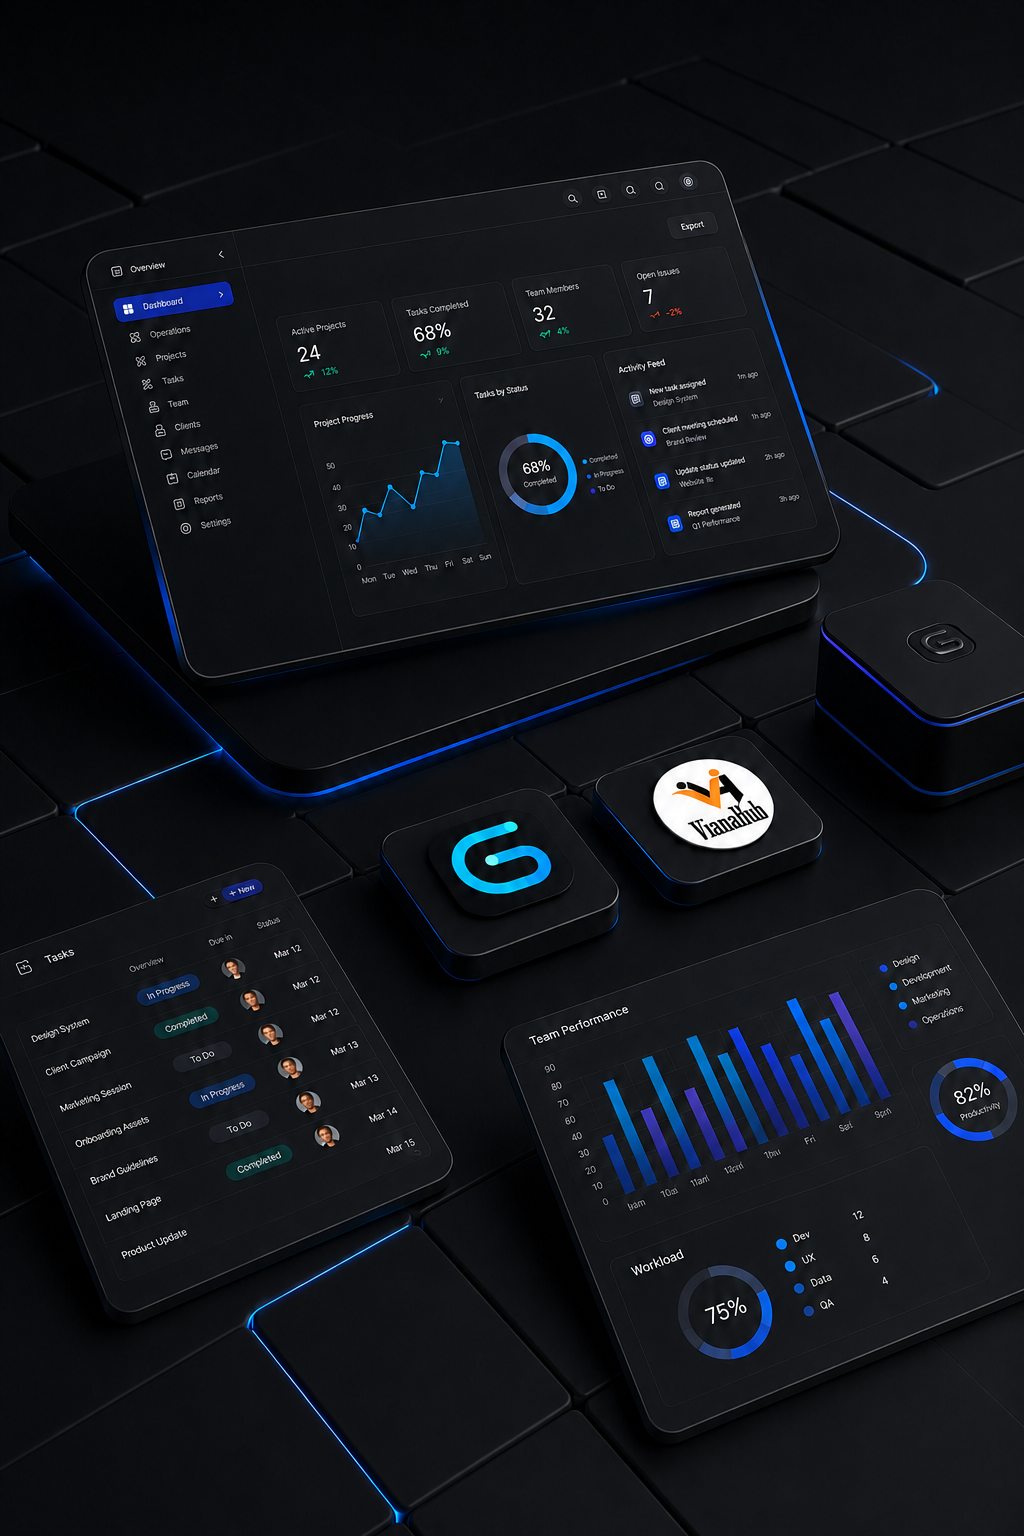
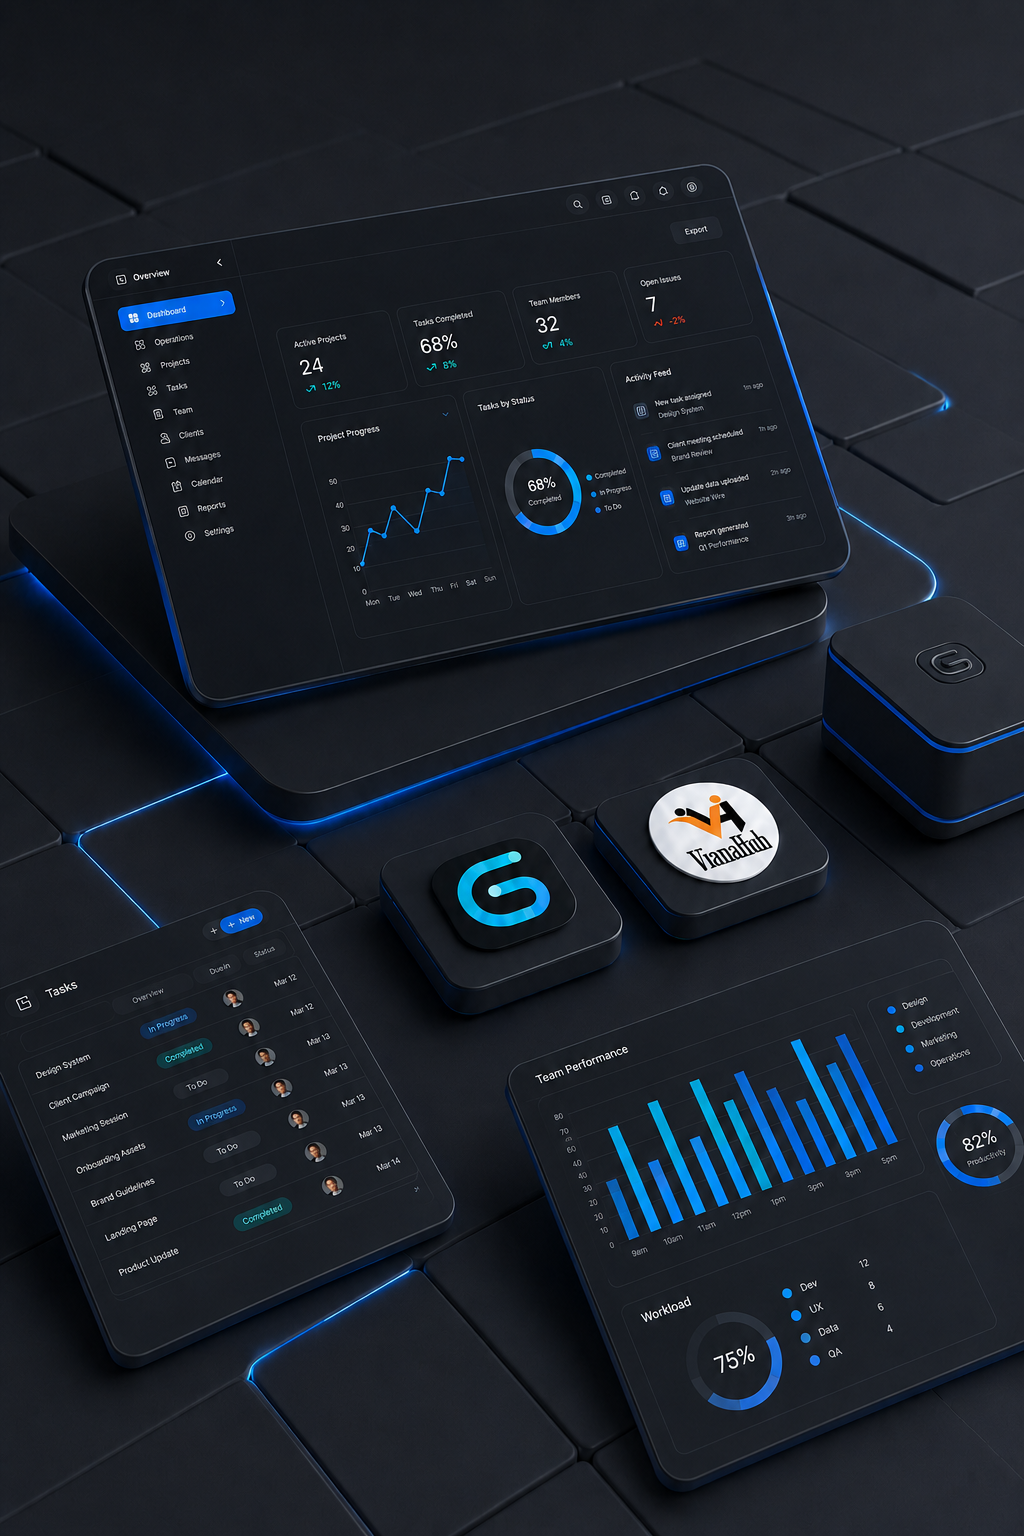
feat(ui): padronizar inputs, textareas e SelectTrigger com estilo do login - closes #99

diff --git a/domains/operations/clients/clients-details.tsx b/domains/operations/clients/clients-details.tsx
@@ -4,6 +4,7 @@ import clsx from "clsx";
 import { Loader2, Power, SquarePen, Trash2, ArrowLeft } from "lucide-react";
 import { FormEvent, useCallback, useEffect, useMemo, useRef, useState } from "react";
 import { ConfirmDialog } from "@/shared/ui/confirm-dialog";
+import { Textarea } from "@/shared/ui/textarea";
 import { useRouter } from "next/navigation";
 import { useAuth } from "@/platform/auth";
 import { useTranslation } from "@/platform/i18n";
@@ -1786,7 +1787,7 @@ export function ClientsDetailsPage({ clientId: clientIdProp }: { clientId?: stri
           <label className="mb-1.5 block text-sm font-semibold text-muted-foreground dark:text-muted-foreground">
             {t("clients.form.observation")}
           </label>
-          <textarea
+          <Textarea
             value={clientFormState.note}
             onChange={(event) =>
               setClientFormState((prev) => ({
@@ -1795,7 +1796,6 @@ export function ClientsDetailsPage({ clientId: clientIdProp }: { clientId?: stri
               }))
             }
             rows={3}
-            className="w-full rounded-sm border border-input bg-background px-3 py-2 text-sm text-foreground placeholder:text-muted-foreground focus:border-ring focus:outline-none focus:ring-1 focus:ring-ring dark:border-input dark:bg-card dark:text-foreground dark:placeholder:text-muted-foreground dark:focus:border-ring"
           />
         </div>
       </div>
@@ -1907,7 +1907,7 @@ export function ClientsDetailsPage({ clientId: clientIdProp }: { clientId?: stri
             <label className="mb-1.5 block text-sm font-semibold text-muted-foreground dark:text-muted-foreground">
               {t("clients.form.observation")}
             </label>
-            <textarea
+            <Textarea
               value={clientFormState.note}
               onChange={(event) =>
                 setClientFormState((prev) => ({
@@ -1916,7 +1916,6 @@ export function ClientsDetailsPage({ clientId: clientIdProp }: { clientId?: stri
                 }))
               }
               rows={3}
-              className="w-full rounded-sm border border-input bg-background px-3 py-2 text-sm text-foreground placeholder:text-muted-foreground focus:border-ring focus:outline-none focus:ring-1 focus:ring-ring dark:border-input dark:bg-card dark:text-foreground dark:placeholder:text-muted-foreground dark:focus:border-ring"
             />
           </div>
         </div>

diff --git a/domains/operations/clients/clients-create.tsx b/domains/operations/clients/clients-create.tsx
@@ -12,6 +12,7 @@ import {
   normalizeClient,
   normalizeClientError,
 } from "@/domains/operations/clients/client-utils";
+import { Textarea } from "@/shared/ui/textarea";
 import {
   FormField,
   SelectField,
@@ -213,7 +214,7 @@ export function ClientsCreatePage() {
           <label className="mb-1.5 block text-sm font-semibold text-muted-foreground dark:text-muted-foreground">
             {t("clients.form.observation")}
           </label>
-          <textarea
+          <Textarea
             value={clientFormState.note}
             onChange={(event) =>
               setClientFormState((prev) => ({
@@ -222,7 +223,6 @@ export function ClientsCreatePage() {
               }))
             }
             rows={3}
-            className="w-full rounded-sm border border-border bg-card px-3 py-2 text-sm text-foreground placeholder:text-muted-foreground focus:border-ring focus:outline-none focus:ring-1 focus:ring-ring dark:border-border dark:bg-card dark:text-foreground dark:placeholder:text-muted-foreground dark:focus:border-ring"
           />
         </div>
       </div>
@@ -334,7 +334,7 @@ export function ClientsCreatePage() {
             <label className="mb-1.5 block text-sm font-semibold text-muted-foreground dark:text-muted-foreground">
               {t("clients.form.observation")}
             </label>
-            <textarea
+            <Textarea
               value={clientFormState.note}
               onChange={(event) =>
                 setClientFormState((prev) => ({
@@ -343,7 +343,6 @@ export function ClientsCreatePage() {
                 }))
               }
               rows={3}
-              className="w-full rounded-sm border border-border bg-card px-3 py-2 text-sm text-foreground placeholder:text-muted-foreground focus:border-ring focus:outline-none focus:ring-1 focus:ring-ring dark:border-border dark:bg-card dark:text-foreground dark:placeholder:text-muted-foreground dark:focus:border-ring"
             />
           </div>
         </div>

diff --git a/domains/operations/clients/clients-form-components.tsx b/domains/operations/clients/clients-form-components.tsx
@@ -1,6 +1,7 @@
 "use client";
 
 import clsx from "clsx";
+import { Input } from "@/shared/ui/input";
 
 /* ---------- Individual form state ---------- */
 
@@ -229,7 +230,7 @@ export function FormField({
         {label}
         {required && <span className="ml-0.5 text-red-500">*</span>}
       </label>
-      <input
+      <Input
         id={inputId}
         type={type}
         value={value}
@@ -239,10 +240,9 @@ export function FormField({
         aria-invalid={error ? true : undefined}
         aria-describedby={error && errorId ? `${errorId}-error` : undefined}
         className={clsx(
-          "rounded-sm border px-3 py-2 text-sm text-foreground placeholder:text-muted-foreground focus:outline-none focus:ring-1 focus:ring-ring disabled:opacity-50 dark:text-foreground dark:placeholder:text-muted-foreground dark:focus:border-ring",
           error
-            ? "border-red-500 focus:border-red-500 dark:border-red-500"
-            : "border-border bg-card focus:border-ring dark:border-border dark:bg-card",
+            ? "border-red-500 focus-visible:border-red-500 focus-visible:ring-red-500/55"
+            : "",
         )}
       />
       {error && errorId && (

diff --git a/shared/hub-grid/hub-grid.tsx b/shared/hub-grid/hub-grid.tsx
@@ -3,6 +3,7 @@
 import clsx from "clsx";
 import { ChevronDown, ChevronUp, Inbox, Loader2, Search } from "lucide-react";
 import type { ReactNode } from "react";
+import { Input } from "@/shared/ui/input";
 
 export type RowDensity = "compact" | "medium" | "expanded";
 
@@ -145,11 +146,11 @@ export function HubGrid<Item>({
             </label>
             <label className="relative w-1/3 min-w-[12rem]">
               <Search className="pointer-events-none absolute left-3 top-1/2 h-4 w-4 -translate-y-1/2 text-muted-foreground" />
-              <input
+              <Input
                 value={searchValue}
                 onChange={(event) => onSearchChange(event.target.value)}
                 placeholder={searchPlaceholder}
-                className="h-11 w-full rounded-sm border border-input bg-background pl-10 pr-3 text-sm text-foreground outline-none focus:border-ring dark:border-input dark:bg-card dark:text-white"
+                className="pl-10"
               />
             </label>
           </div>

diff --git a/shared/ui/textarea.tsx b/shared/ui/textarea.tsx
@@ -1,0 +1,24 @@
+"use client";
+
+import * as React from "react";
+import { cn } from "@/shared/ui/utils";
+
+export interface TextareaProps extends React.TextareaHTMLAttributes<HTMLTextAreaElement> {}
+
+const Textarea = React.forwardRef<HTMLTextAreaElement, TextareaProps>(
+  ({ className, ...props }, ref) => {
+    return (
+      <textarea
+        className={cn(
+          "flex h-12 w-full rounded-[14px] border bg-card px-4 py-2 text-sm text-foreground outline-none transition-colors placeholder:text-muted-foreground focus-visible:ring-2 focus-visible:ring-ring/55 disabled:cursor-not-allowed disabled:opacity-50 min-h-[80px]",
+          className,
+        )}
+        ref={ref}
+        {...props}
+      />
+    );
+  },
+);
+Textarea.displayName = "Textarea";
+
+export { Textarea };

diff --git a/shared/ui/select.tsx b/shared/ui/select.tsx
@@ -18,7 +18,7 @@ const SelectTrigger = React.forwardRef<
   <SelectPrimitive.Trigger
     ref={ref}
     className={cn(
-      "flex h-8 w-full items-center justify-between rounded-full border border-white/10 bg-black/10 px-3 text-[0.72rem] font-semibold text-muted-foreground outline-none transition-colors hover:text-foreground focus-visible:ring-2 focus-visible:ring-ring disabled:cursor-not-allowed disabled:opacity-50",
+      "flex h-8 w-full items-center justify-between rounded-[14px] border border-border bg-card px-3 text-sm font-semibold text-muted-foreground outline-none transition-colors hover:text-foreground focus-visible:ring-2 focus-visible:ring-ring disabled:cursor-not-allowed disabled:opacity-50",
       "data-[placeholder]:text-muted-foreground",
       className,
     )}

diff --git a/shared/ui/input.tsx b/shared/ui/input.tsx
@@ -1,0 +1,25 @@
+"use client";
+
+import * as React from "react";
+import { cn } from "@/shared/ui/utils";
+
+export interface InputProps extends React.InputHTMLAttributes<HTMLInputElement> {}
+
+const Input = React.forwardRef<HTMLInputElement, InputProps>(
+  ({ className, type, ...props }, ref) => {
+    return (
+      <input
+        type={type}
+        className={cn(
+          "flex h-12 w-full rounded-[14px] border bg-card px-4 py-2 text-sm text-foreground outline-none transition-colors placeholder:text-muted-foreground focus-visible:ring-2 focus-visible:ring-ring/55 disabled:cursor-not-allowed disabled:opacity-50",
+          className,
+        )}
+        ref={ref}
+        {...props}
+      />
+    );
+  },
+);
+Input.displayName = "Input";
+
+export { Input };

diff --git a/shared/ui/index.ts b/shared/ui/index.ts
@@ -8,6 +8,8 @@ export {
   TooltipContent,
   TooltipProvider,
 } from "@/shared/ui/tooltip";
+export { Input } from "@/shared/ui/input";
+export { Textarea } from "@/shared/ui/textarea";
 export { cn } from "@/shared/ui/utils";
 export { Toaster } from "@/shared/ui/toaster";
 export {
